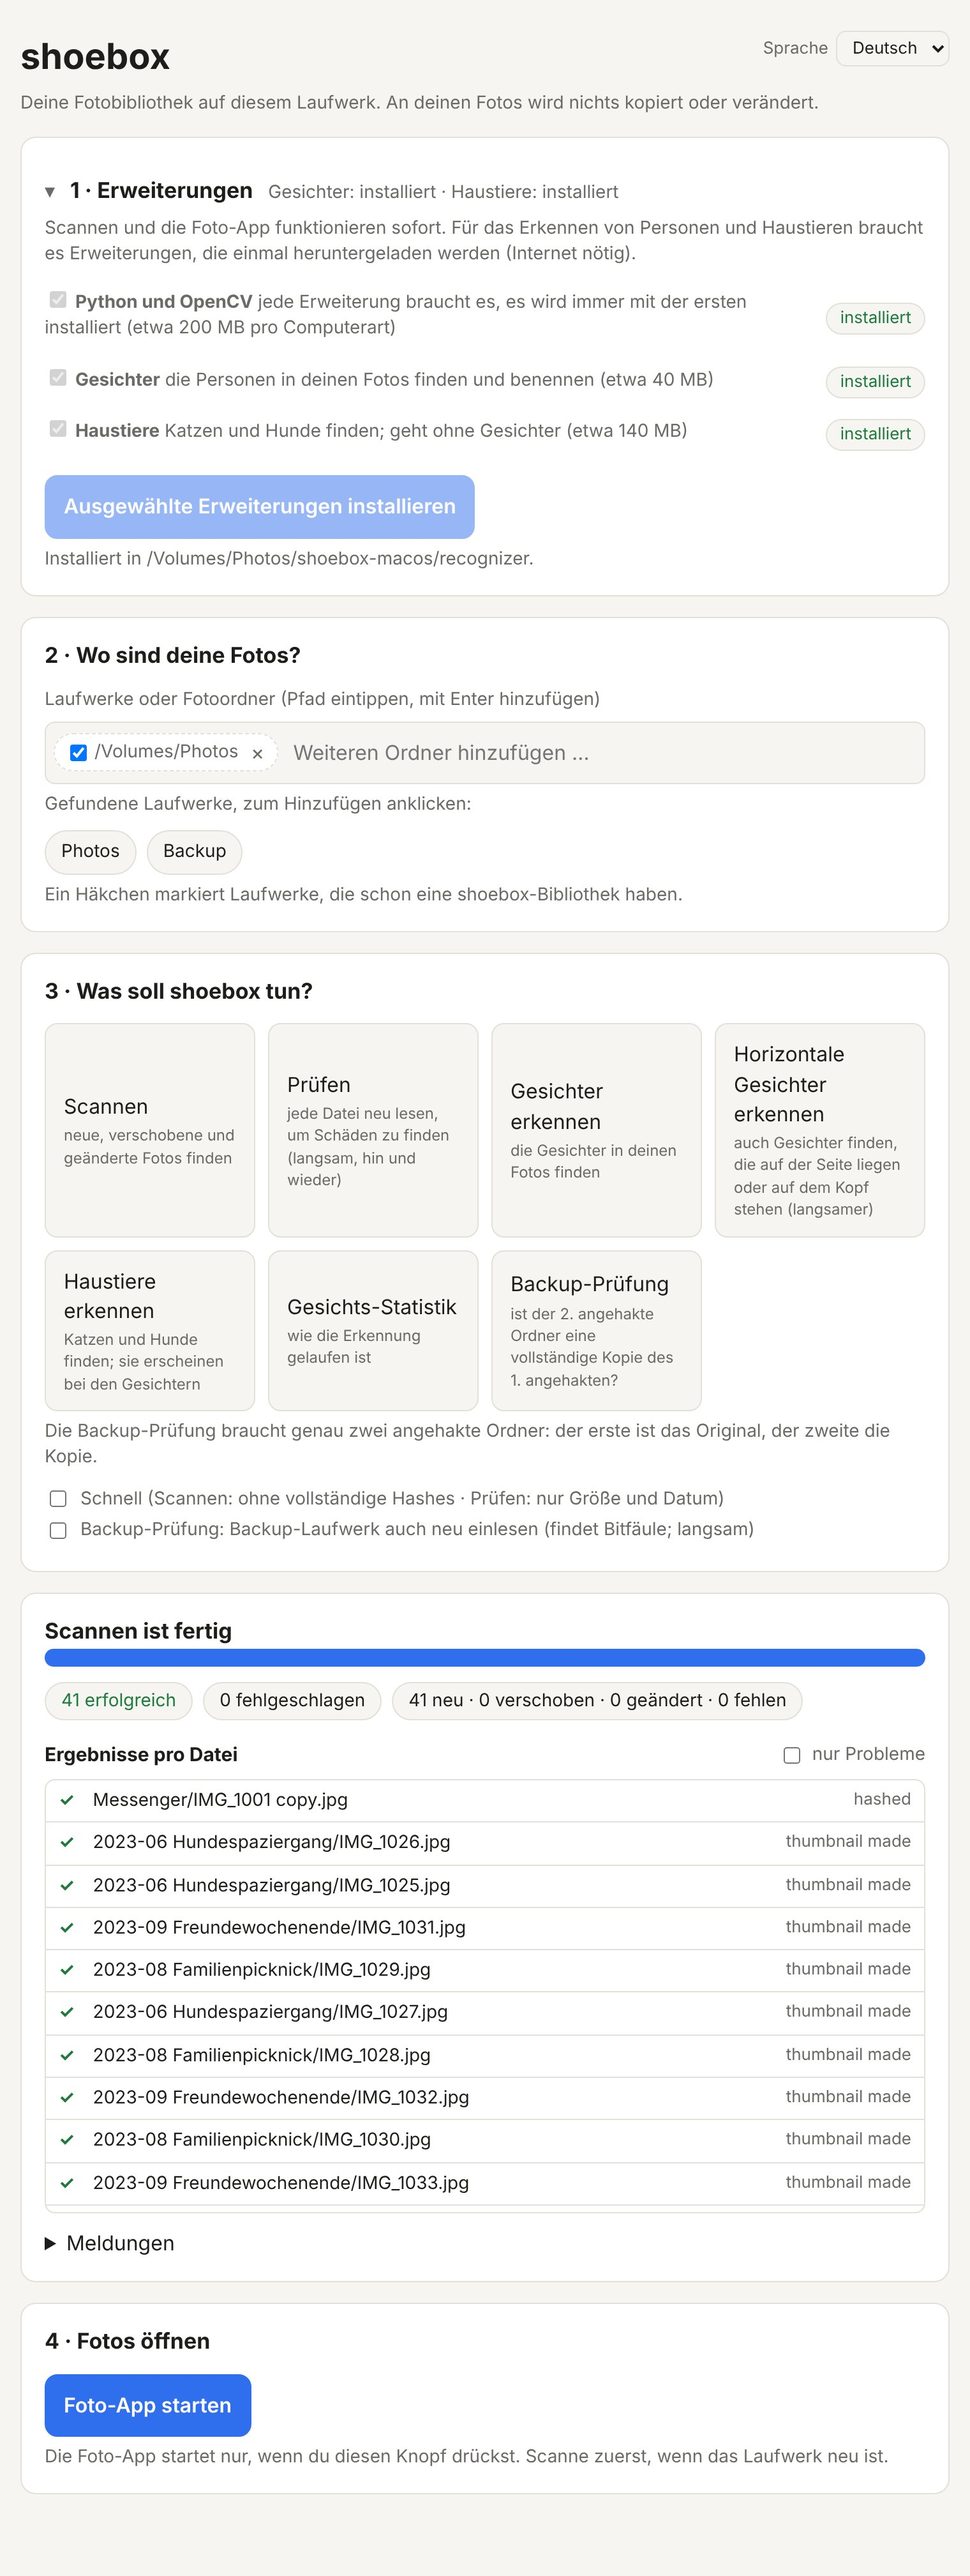
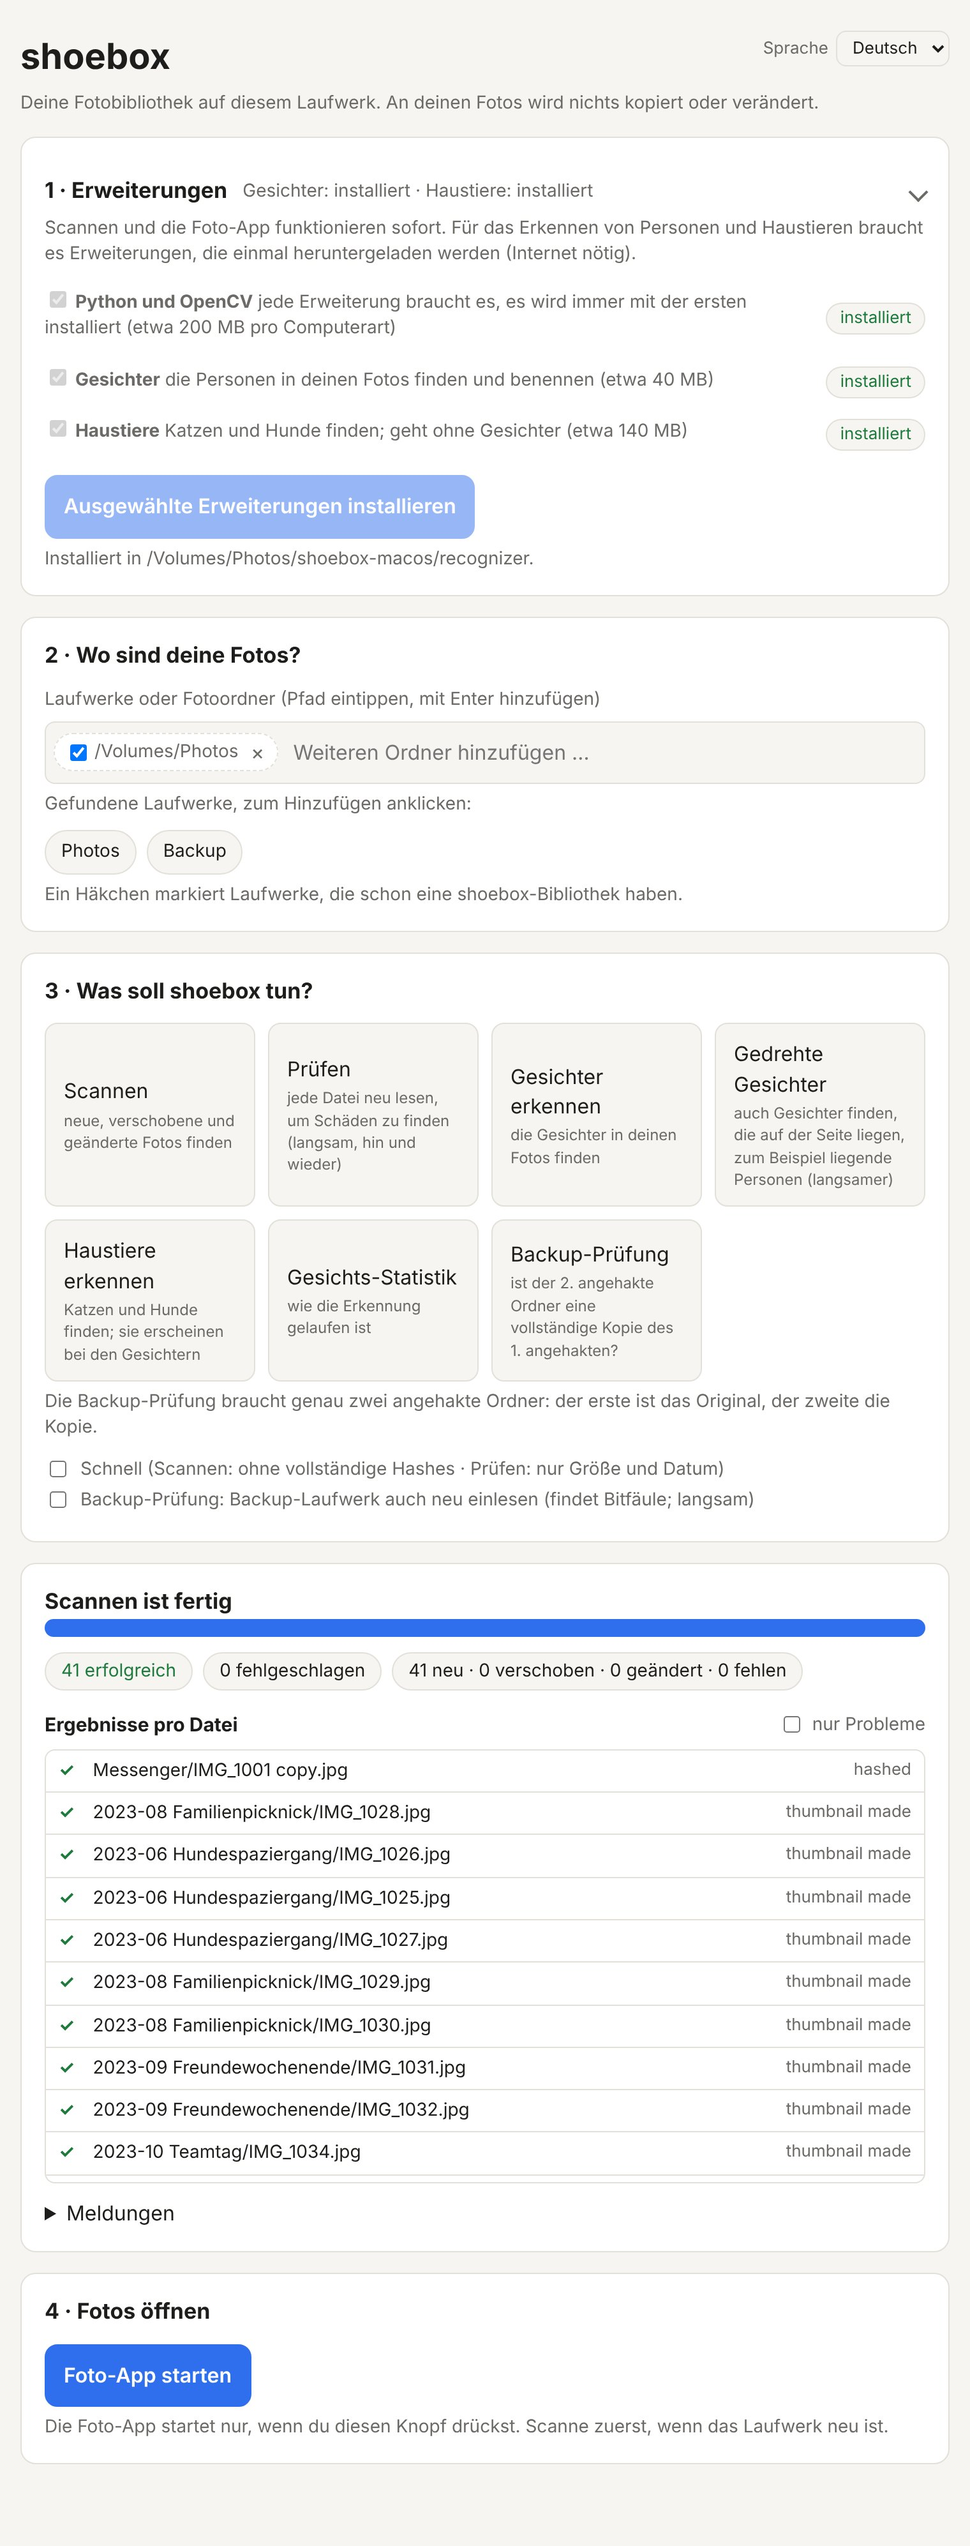
Control Panel polish: right-aligned chevron, shorter button names, models-found state
- Fold chevron is a thin line chevron at the right edge.
- 'Rotated faces' / 'Gedrehte Gesichter' (the pass turns photos 90 and 270
  degrees; it does not cover upside-down), short enough for two lines.
- Info text no longer lists drives.
- Add-ons show 'models found, needs Python for this computer' when the models
  are there but the runtime for this kind of computer is not.
- Lookup: dropped the redundant .shoebox/bin/../recognizer entry.

Claude-Session: https://claude.ai/code/session_01DP8i2dSP47qnpiyQANzNzu

diff --git a/docs/guide/shoebox-de.html b/docs/guide/shoebox-de.html
@@ -328,8 +328,8 @@
                 <dd>prüfen, dass nichts verloren oder beschädigt ist. Es liest jede Datei neu und vergleicht sie mit dem, was der Index kennt; so findet es Dateien, die auf dem Laufwerk unbemerkt beschädigt wurden. Langsam, also hin und wieder ausführen (alle paar Monate oder bevor man sich auf ein Backup verlässt), nicht nach jedem Verschieben. Verschiebungen sind nicht seine Sache: ein verschobenes Foto hat im Index seinen neuen Platz und besteht die Prüfung. Ein Foto, dessen Pfad weg ist, dessen Inhalt aber anderswo auf dem Laufwerk noch liegt (eine gelöschte Kopie), steht als „umgezogen“ in der Liste, nicht als Fehler. Nur Inhalt, der nirgends mehr auf dem Laufwerk liegt, zählt als fehlend. Fehlen Dateien, erscheint nach der Prüfung (und nach einem Scan) ein Knopf, der ihre Einträge vergisst: sie werden aus dem shoebox-Index, seiner Datenbank auf dem Laufwerk, entfernt. Keine Fotodatei wird angefasst.</dd>
                 <dt>Gesichter erkennen</dt>
                 <dd>die Gesichter in deinen Fotos finden (mit „Haustiere erkennen“ auch Katzen und Hunde). Braucht die Erweiterung „Gesichter“.</dd>
-                <dt>Horizontale Gesichter erkennen</dt>
-                <dd>auch Gesichter finden, die auf der Seite liegen oder auf dem Kopf stehen (langsamer). Braucht die Erweiterung „Gesichter“.</dd>
+                <dt>Gedrehte Gesichter</dt>
+                <dd>auch Gesichter finden, die auf der Seite liegen, zum Beispiel liegende Personen (langsamer). Braucht die Erweiterung „Gesichter“.</dd>
                 <dt>Haustiere erkennen</dt>
                 <dd>Katzen und Hunde finden; sie erscheinen bei den Gesichtern. Braucht die Erweiterung „Haustiere“, nicht die für Gesichter.</dd>
                 <dt>Gesichts-Statistik</dt>
@@ -348,7 +348,7 @@
         <h3>Mehrere Computer und Systeme</h3>
         <ul>
           <li><b>Wo die Erweiterungen gesucht werden:</b> zuerst im Ordner <b>recognizer</b> neben dem gestarteten shoebox-Programm, zuletzt im eigenen versteckten <code>.shoebox/recognizer</code> des Laufwerks (nur, wenn der Programmordner nichts hat). Ein shoebox-Ordner auf deinem Computer wird also für jedes Laufwerk benutzt, auch wenn ein Laufwerk selbst Modelle enthält.</li>
-          <li><b>Modelle und Python sind zweierlei.</b> Die Modelle (Gesichter, Haustiere) sind auf jedem Computer gleich. <b>Python und OpenCV</b> gibt es je Computerart: Intel-Mac, Apple-Silicon-Mac, Linux, Windows. Nimmst du ein Laufwerk mit <b>shoebox-macos</b> von einem Intel-MacBook zu einem neueren mit, zeigt Schritt 1 dort <b>Python und OpenCV: nicht installiert</b>, und die Erkennen-Knöpfe sind grau. Dort einmal <b>Ausgewählte Erweiterungen installieren</b> drücken: Es wird nur das fehlende Python geladen, die Modelle bleiben. Beide Arten liegen dann nebeneinander im selben Ordner <b>recognizer</b>, und jeder Computer nutzt seine eigene.</li>
+          <li><b>Modelle und Python sind zweierlei.</b> Die Modelle (Gesichter, Haustiere) sind auf jedem Computer gleich. <b>Python und OpenCV</b> gibt es je Computerart: Intel-Mac, Apple-Silicon-Mac, Linux, Windows. Nimmst du ein Laufwerk mit <b>shoebox-macos</b> von einem Intel-MacBook zu einem neueren mit, zeigt Schritt 1 dort bei <b>Python und OpenCV</b> <b>nötig</b>, deine Erweiterungen sagen <b>Modelle da, braucht Python für diesen Computer</b>, und die Erkennen-Knöpfe sind grau. Dort einmal <b>Ausgewählte Erweiterungen installieren</b> drücken: Es wird nur das fehlende Python geladen, die Modelle bleiben. Beide Arten liegen dann nebeneinander im selben Ordner <b>recognizer</b>, und jeder Computer nutzt seine eigene.</li>
           <li><b>Mac und Windows auf einem Laufwerk:</b> beide Ordner in den obersten Ordner des Laufwerks kopieren: <code>shoebox-macos</code> und <code>shoebox-windows</code>. Jeder hat seinen eigenen Ordner <b>recognizer</b>; Modelle, die du im einen installierst, gelten also nicht im anderen. Gestartet wird aus dem Ordner des Systems, an dem du sitzt. Beide nutzen denselben versteckten Index <code>.shoebox</code> auf dem Laufwerk. Erweiterungen gibt es für Windows noch nicht.</li>
         </ul>
       </div>

diff --git a/docs/guide/shoebox-en.html b/docs/guide/shoebox-en.html
@@ -328,8 +328,8 @@
                 <dd>check that nothing was lost or damaged. It re-reads every file and compares it with what the index remembers, which finds files that were silently damaged on the drive. Slow, so run it now and then (every few months, or before you rely on a backup), not after every move. Moves are not its business: a moved photo has its new place in the index and passes. A photo whose path is gone but whose content is still on the drive elsewhere (a duplicate you deleted) is listed as "relocated", not as a failure. Only content that is nowhere on the drive any more counts as missing. If files are gone, a button appears after the check (and after a scan) that forgets their records: they are removed from the shoebox index, its database on the drive. No photo file is touched.</dd>
                 <dt>Recognize faces</dt>
                 <dd>find the faces in your photos (and, with Recognize pets, cats and dogs). Needs the Faces add-on.</dd>
-                <dt>Recognize horizontal faces</dt>
-                <dd>also find faces lying on their side or upside down (slower). Needs the Faces add-on.</dd>
+                <dt>Rotated faces</dt>
+                <dd>also find faces turned on their side, for example people lying down (slower). Needs the Faces add-on.</dd>
                 <dt>Recognize pets</dt>
                 <dd>find cats and dogs; they show up among the faces. Needs the Pets add-on, not the Faces one.</dd>
                 <dt>Face stats</dt>
@@ -348,7 +348,7 @@
         <h3>Several computers and systems</h3>
         <ul>
           <li><b>Where the add-ons are looked for:</b> first in the <b>recognizer</b> folder next to the shoebox program you started, last in the drive's own hidden <code>.shoebox/recognizer</code> (only used when the program folder has nothing). So a shoebox folder on your computer is used for every drive, even if a drive holds models too.</li>
-          <li><b>Models and Python are different things.</b> The models (Faces, Pets) are the same on every computer. <b>Python and OpenCV</b> is built for one kind of computer: Intel Mac, Apple Silicon Mac, Linux, Windows. If you take a drive with <b>shoebox-macos</b> from an Intel MacBook to a newer one, step 1 shows <b>Python and OpenCV: not installed</b> on the newer one and the recognize buttons are grey. Press <b>Install the selected add-ons</b> once there: only the missing Python is downloaded, the models are kept. Both kinds then live side by side in the same <b>recognizer</b> folder, and each computer uses its own.</li>
+          <li><b>Models and Python are different things.</b> The models (Faces, Pets) are the same on every computer. <b>Python and OpenCV</b> is built for one kind of computer: Intel Mac, Apple Silicon Mac, Linux, Windows. If you take a drive with <b>shoebox-macos</b> from an Intel MacBook to a newer one, step 1 shows <b>Python and OpenCV: required</b> on the newer one, your add-ons say <b>models found, needs Python for this computer</b>, and the recognize buttons are grey. Press <b>Install the selected add-ons</b> once there: only the missing Python is downloaded, the models are kept. Both kinds then live side by side in the same <b>recognizer</b> folder, and each computer uses its own.</li>
           <li><b>Mac and Windows on one drive:</b> copy both folders to the drive's top folder: <code>shoebox-macos</code> and <code>shoebox-windows</code>. Each has its own <b>recognizer</b> folder, so models you install in one are not shared with the other. Start shoebox from the folder of the system you are on. Both use the same hidden <code>.shoebox</code> index on the drive. Add-ons are not available on Windows yet.</li>
         </ul>
       </div>

diff --git a/core/launcher-web/launcher.js b/core/launcher-web/launcher.js
@@ -142,8 +142,14 @@ function renderAddons() {
   var rt = $('addon-runtime-state');
   rt.textContent = tr(addons.runtime ? 'launcher.addon.installed' : 'launcher.addon.required');
   rt.className = 'pill' + (addons.runtime ? ' ok' : ' req');
-  state('addon-faces-state', addons.faces);
-  state('addon-pets-state', addons.pets);
+  // Ready, or the models are on the drive but this kind of computer lacks its Python, or missing.
+  var addonState = function (id, ready, models) {
+    var s = $(id);
+    s.textContent = tr(ready ? 'launcher.addon.installed' : models ? 'launcher.addon.needs_runtime' : 'launcher.addon.missing');
+    s.className = 'pill' + (ready ? ' ok' : '');
+  };
+  addonState('addon-faces-state', addons.faces, addons.faces_models);
+  addonState('addon-pets-state', addons.pets, addons.pets_models);
   // Each add-on stands alone; an installed one is ticked and cannot be ticked off.
   ['faces', 'pets'].forEach(function (k) {
     var box = $('addon-' + k);
@@ -156,15 +162,15 @@ function renderAddons() {
     : addons.faces && addons.pets ? tr('launcher.addons.all_installed', { dir: addons.dir })
     : tr('launcher.addons.where', { dir: addons.dir });
   // The folded card still says where things stand.
+  var word = function (ready, models) { return tr(ready ? 'launcher.addon.installed' : models ? 'launcher.addon.needs_runtime' : 'launcher.addon.missing'); };
   $('addons-summary').textContent = [
-    tr('launcher.addon.faces') + ': ' + tr(addons.faces ? 'launcher.addon.installed' : 'launcher.addon.missing'),
-    tr('launcher.addon.pets') + ': ' + tr(addons.pets ? 'launcher.addon.installed' : 'launcher.addon.missing'),
+    tr('launcher.addon.faces') + ': ' + word(addons.faces, addons.faces_models),
+    tr('launcher.addon.pets') + ': ' + word(addons.pets, addons.pets_models),
   ].join(' · ');
   // Why a recognition button is grey.
   var why = [];
-  var noFaces = addonMissing('recognize'), noPets = addonMissing('recognize_pets');
-  if (noFaces.length) why.push(tr('launcher.addons.need_faces', { drives: noFaces.join(', ') }));
-  if (noPets.length) why.push(tr('launcher.addons.need_pets', { drives: noPets.join(', ') }));
+  if (addonMissing('recognize').length) why.push(tr('launcher.addons.need_faces'));
+  if (addonMissing('recognize_pets').length) why.push(tr('launcher.addons.need_pets'));
   $('addon-need').textContent = why.join(' ');
   document.querySelectorAll('.actions button').forEach(function (b) {
     if (addonMissing(b.dataset.kind).length) b.disabled = true;

diff --git a/core/launcher-web/launcher.css b/core/launcher-web/launcher.css
@@ -96,8 +96,11 @@ header { position: relative; }
 .addons span:not(.pill) { color: var(--muted); font-size: 14px; }
 #addons-details > summary { cursor: pointer; display: flex; align-items: baseline; gap: 12px; list-style: none; }
 #addons-details > summary::-webkit-details-marker { display: none; }
-#addons-details > summary::before { content: "▸"; color: var(--muted); }
-#addons-details[open] > summary::before { content: "▾"; }
+/* a thin chevron at the right edge, so the headings stay aligned on the left */
+#addons-details > summary { align-items: center; }
+#addons-details > summary::after { content: ""; flex: none; margin-left: auto; width: 9px; height: 9px;
+  border-right: 2px solid var(--muted); border-bottom: 2px solid var(--muted); transform: rotate(-45deg); transition: transform .15s; }
+#addons-details[open] > summary::after { transform: rotate(45deg); }
 #addons-details > summary h2 { margin: 0; }
 .summary-line { color: var(--muted); font-size: 14px; }
 .addons input:disabled + b, .addons input:disabled { opacity: 1; }

diff --git a/core/src/recognize.rs b/core/src/recognize.rs
@@ -319,15 +319,14 @@ pub fn find_worker_for(root: &Path, explicit: Option<&Path>, pets: bool) -> Opti
 
 /// Where an installed recognizer is looked for, best first: `recognizer/` next
 /// to the shoebox program (the downloaded folder, on the computer or on a
-/// drive), then next to the folder of the program (`.shoebox/bin/../recognizer`),
-/// and last the drive's own `.shoebox/recognizer/` (made by `install.sh <drive>`;
-/// it only serves when nothing is installed next to the program, so a program
-/// folder on the computer is the one used for every drive).
+/// drive), then the drive's own `.shoebox/recognizer/` (made by
+/// `install.sh <drive>`; a program in the older `.shoebox/bin/` layout lands
+/// here too). The drive's only serves when nothing is installed next to the
+/// program, so a program folder on the computer is used for every drive.
 pub fn worker_dirs(root: Option<&Path>) -> Vec<PathBuf> {
     let mut dirs: Vec<PathBuf> = Vec::new();
     if let Some(bin) = std::env::current_exe().ok().and_then(|p| p.parent().map(Path::to_path_buf)) {
         dirs.push(bin.join("recognizer"));
-        dirs.push(bin.join("..").join("recognizer"));
     }
     dirs.extend(root.map(|r| r.join(db::DIR).join("recognizer")));
     dirs
@@ -353,6 +352,9 @@ pub struct Installed {
     pub runtime: bool,
     /// Models are there (for a runtime that may be missing on this computer).
     pub models: bool,
+    /// … which ones, whether or not the runtime for this computer is there.
+    pub faces_models: bool,
+    pub pets_models: bool,
     pub faces: bool,
     pub pets: bool,
     /// The folder the best install is in (the one `recognize` would use).
@@ -367,6 +369,8 @@ pub fn installed(root: Option<&Path>) -> Installed {
     Installed {
         runtime: !ready.is_empty(),
         models: dirs.iter().any(|d| has_faces(d) || has_pets(d)),
+        faces_models: dirs.iter().any(|d| has_faces(d)),
+        pets_models: dirs.iter().any(|d| has_pets(d)),
         faces: ready.iter().any(|d| has_faces(d)),
         pets: ready.iter().any(|d| has_pets(d)),
         dir: ready.first().map(|d| (*d).clone()),

diff --git a/core/src/launcher.rs b/core/src/launcher.rs
@@ -965,6 +965,8 @@ async fn addons(Json(req): Json<AddonsRequest>) -> Json<serde_json::Value> {
         "dir": dir,
         "runtime": program.runtime,
         "models": program.models,
+        "faces_models": program.faces_models,
+        "pets_models": program.pets_models,
         "faces": program.faces,
         "pets": program.pets,
         "roots": roots,

diff --git a/docs/plan.md b/docs/plan.md
@@ -80,12 +80,12 @@ what is installed for the computer and for each ticked drive
 (`recognize::installed`, by looking for files, never by starting the worker),
 and the Control Panel greys out Recognize / Recognize lying down (need Faces)
 and Recognize pets (needs Pets) with the reason. Lookup order
-(`recognize::worker_dirs`): `recognizer/` next to the program, then
-`<program dir>/../recognizer` (`.shoebox/bin/..`), last the drive's
-`.shoebox/recognizer/`; `find_worker_for` takes the first folder that has the
+(`recognize::worker_dirs`): `recognizer/` next to the program, then the drive's
+`.shoebox/recognizer/` (made by `install.sh <drive>`; the older
+`.shoebox/bin/` layout lands here too); `find_worker_for` takes the first folder that has the
 models the run needs and the Python for this computer. The models are the
 same everywhere; the runtime is per `<os>-<arch>` (`recognizer/runtime/`), so
-another kind of Mac shows "Python and OpenCV: not installed", and installing
+another kind of Mac shows "Python and OpenCV: required" and the add-ons "models found, needs Python for this computer", and installing
 there adds only its runtime next to the existing one (`install.sh` skips models
 that are present). The worker starts without face models when started
 with `--pets` (hello lists only the pet tasks); the core then skips the face

diff --git a/docs/phase4.md b/docs/phase4.md
@@ -24,8 +24,7 @@ face models are always installed. The launcher's step 1, **Add-ons**, runs this
 script (job `install_addons`, `POST /api/addons` reports what is installed for
 the computer and for each ticked drive, and greys out Recognize / Recognize
 pets where the add-on is missing). `find_worker_for` looks in `recognizer/` next
-to the shoebox binary first, then `<binary dir>/../recognizer`, and the drive's
-`.shoebox/recognizer/` last, and takes the first folder that has the models the
+to the shoebox binary first and the drive's `.shoebox/recognizer/` last, and takes the first folder that has the models the
 run needs (pet models for `--pets`, else the face models) and the Python for
 this computer (`runtime/<os>-<arch>/`). The models are the same everywhere; the
 runtime is per kind of computer, so a drive installed on another kind of Mac

diff --git a/docs/protocol.md b/docs/protocol.md
@@ -185,9 +185,9 @@ exited 5 seconds later is killed.
 1. `--recognizer <program>` or the `SHOEBOX_RECOGNIZER` environment variable:
    any executable that speaks this protocol (`shoebox-fake-recognizer` in
    tests).
-2. `recognizer/recognizer.py` in the library's `.shoebox/` folder, or next to
-   the shoebox binary's folder (`.shoebox/bin/../recognizer/`), run with the
-   standalone Python in `recognizer/runtime/<platform>/bin/python3` if
+2. `recognizer/recognizer.py` next to the shoebox binary (the downloaded
+   folder), else in the library's `.shoebox/recognizer/` (also what an older
+   `.shoebox/bin/` layout means), run with the standalone Python in `recognizer/runtime/<platform>/bin/python3` if
    present, else `python3` from `PATH`.
 
 Without a worker, `shoebox recognize` reports that recognition is not
